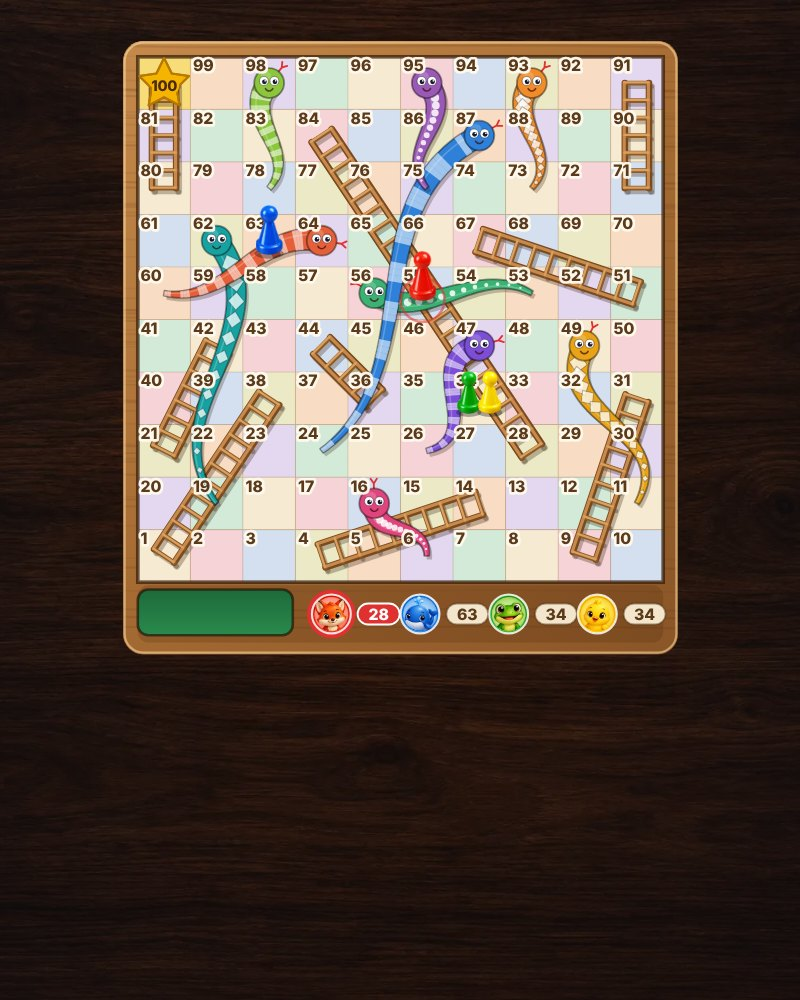
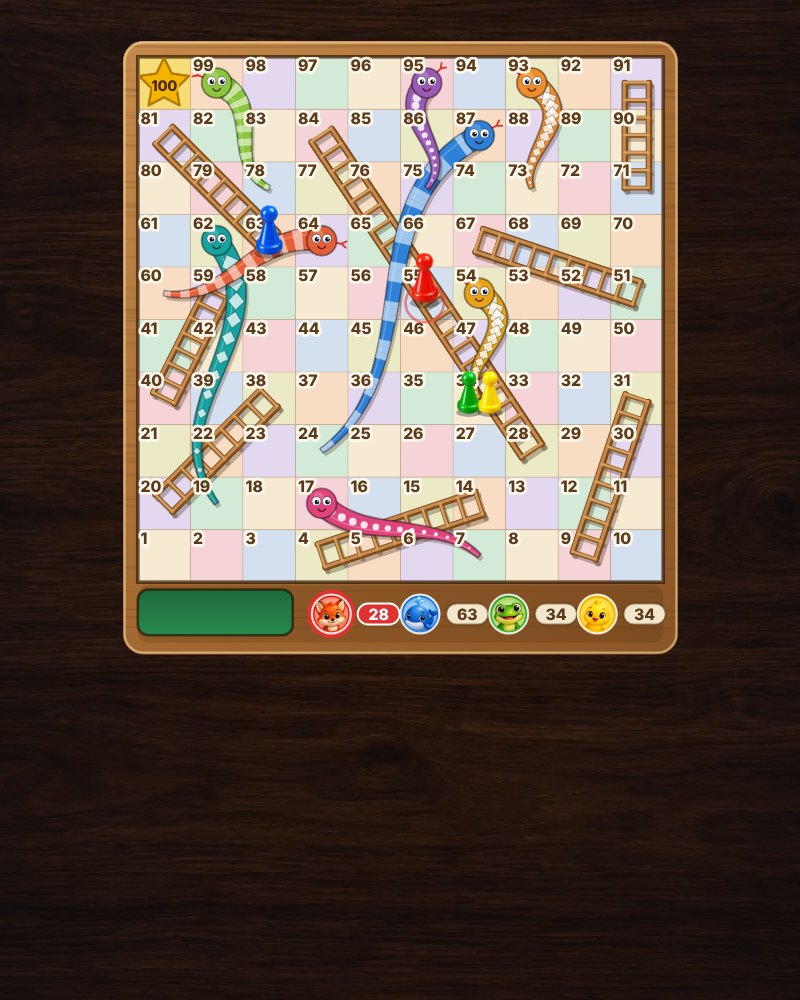
Güncelleme

diff --git a/yilan-merdiven/index.html b/yilan-merdiven/index.html
@@ -264,7 +264,7 @@ const STR = {
       ['🐍', 'Bir <b>yılanın</b> başına gelirsen kuyruğuna kadar kayarsın.'],
       ['🎯', '100\'e <b>tam sayıyla</b> girilir. Zar fazla gelirse piyon yerinde kalır ve sıra geçer.'],
       ['6⃣', '<b>6</b> gelince bir daha atarsın. Üst üste üçüncü 6\'da hamle yapılmaz ve sıra geçer.'],
-      ['🏆', '100\'e ilk ulaşan kazanır. 80. kareye gelen merdivenle doğrudan 100\'e çıkar.']
+      ['🏆', '100\'e ilk ulaşan kazanır.']
     ]
   },
   en: {
@@ -283,7 +283,7 @@ const STR = {
       ['🐍', 'Land on a <b>snake\'s head</b> and you slide down to its tail.'],
       ['🎯', 'You must reach 100 with an <b>exact roll</b>. If the roll is too high, the piece stays and the turn passes.'],
       ['6⃣', 'A <b>6</b> gives you another roll. A third 6 in a row means no move and the turn passes.'],
-      ['🏆', 'The first to reach 100 wins. Landing on square 80 takes the ladder straight to 100.']
+      ['🏆', 'The first to reach 100 wins.']
     ]
   }
 };
@@ -297,8 +297,8 @@ const REDUCED = matchMedia('(prefers-reduced-motion: reduce)').matches;
 
 // ---------- Kurallar (saf mantık) ----------
 // RULES-BEGIN
-const LADDERS = { 1: 38, 4: 14, 9: 31, 21: 42, 28: 84, 36: 44, 51: 67, 71: 91, 80: 100 };
-const SNAKES = { 16: 6, 47: 26, 49: 11, 56: 53, 62: 19, 64: 60, 87: 24, 93: 73, 95: 75, 98: 78 };
+const LADDERS = { 4: 14, 9: 31, 20: 38, 28: 84, 40: 59, 51: 67, 63: 81, 71: 91 };
+const SNAKES = { 17: 7, 54: 34, 62: 19, 64: 60, 87: 24, 93: 73, 95: 75, 99: 78 };
 const jumpOf = (n) => (LADDERS[n] ? { type: 'ladder', from: n, to: LADDERS[n] } : SNAKES[n] ? { type: 'snake', from: n, to: SNAKES[n] } : null);
 // Bir atışın sonucu: pos mevcut kare (0 = tahta dışı), v zar, sixes bu turda önceki üst üste 6 sayısı
 function playRoll(pos, v, sixes) {
@@ -340,9 +340,9 @@ const bez = (a, b, c, d, t) => { const u = 1 - t; return [u * u * u * a[0] + 3 *
 
 // Yılanlar: [baş, kuyruk, sapma1, sapma2, renk, desen]; sapma = baş-kuyruk doğrusuna dik, kare cinsinden
 const SNAKE_DEF = [
-  [16, 6, 0.5, -0.5, '#e0447c', 'dots'], [47, 26, 0.9, -0.9, '#7c4dd6', 'bands'], [49, 11, 1.1, -1.2, '#e8a317', 'diamonds'],
-  [56, 53, 0.6, -0.6, '#3bb273', 'dots'], [62, 19, -1.3, 1.3, '#17a2a2', 'diamonds'], [64, 60, 0.6, -0.6, '#e5603a', 'bands'],
-  [87, 24, 1.6, -1.2, '#2f80d8', 'bands'], [93, 73, 0.6, -0.6, '#f08c2a', 'diamonds'], [95, 75, -0.6, 0.6, '#9b59b6', 'dots'], [98, 78, 0.6, -0.6, '#8cc63f', 'bands']
+  [17, 7, 0.5, -0.5, '#e0447c', 'dots'], [54, 34, -1.0, 0.5, '#e8a317', 'diamonds'], [62, 19, -1.3, 1.3, '#17a2a2', 'diamonds'],
+  [64, 60, 0.6, -0.6, '#e5603a', 'bands'], [87, 24, 1.6, -1.2, '#2f80d8', 'bands'], [93, 73, -1.0, 0.3, '#f08c2a', 'diamonds'],
+  [95, 75, 0.7, -0.6, '#9b59b6', 'dots'], [99, 78, -0.7, 0.6, '#8cc63f', 'bands']
 ].map(([h, t, o1, o2, col, pat]) => {
   const a = sq(h), d = sq(t), dx = d[0] - a[0], dy = d[1] - a[1], L = Math.hypot(dx, dy), nx = -dy / L, ny = dx / L;
   const c1 = [a[0] + dx * 0.33 + nx * o1, a[1] + dy * 0.33 + ny * o1], c2 = [a[0] + dx * 0.66 + nx * o2, a[1] + dy * 0.66 + ny * o2];
